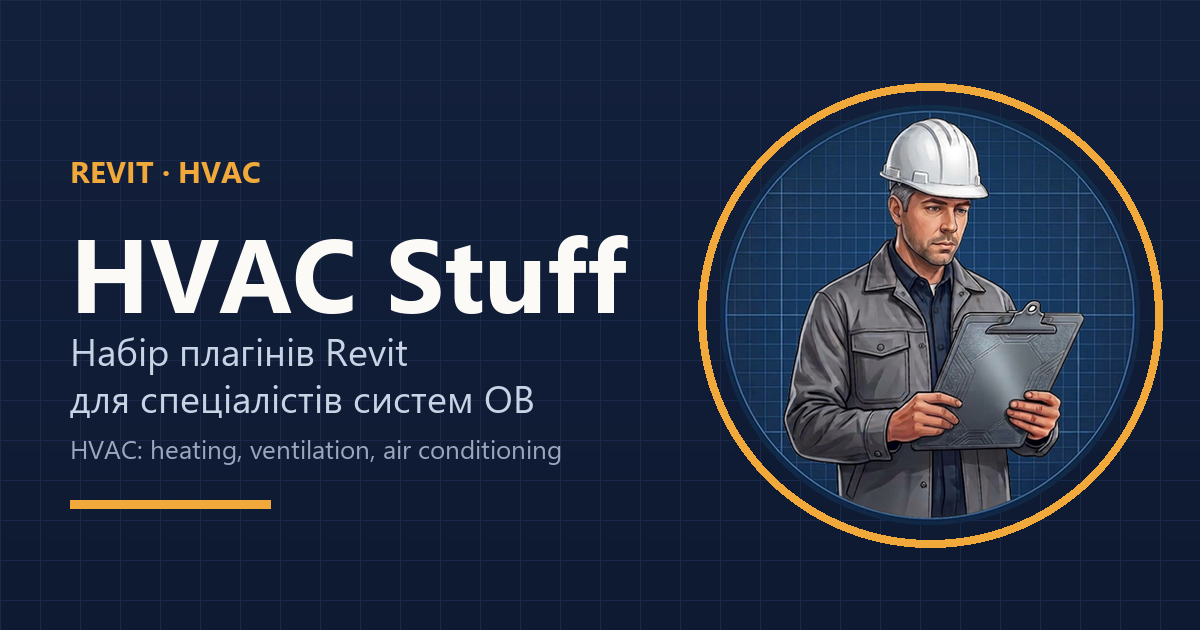
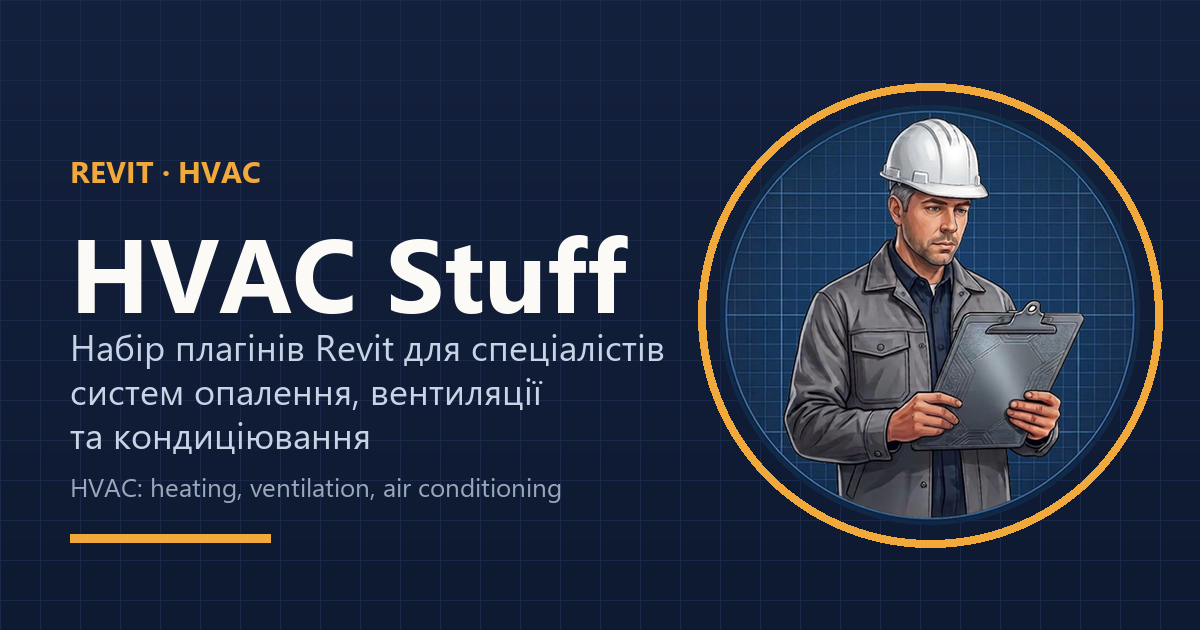
Reword: for specialists of heating, ventilation and air conditioning systems (no abbreviation)

Changed region(s): [[0.0617, 0.5127, 0.555, 0.8143], [0.0617, 0.8444, 0.2467, 0.8746]]

diff --git a/docs/index.html b/docs/index.html
@@ -4,14 +4,14 @@
 <meta charset="utf-8">
 <meta name="viewport" content="width=device-width, initial-scale=1">
 <title>HVAC Stuff — Revit add-in</title>
-<meta name="description" content="HVAC Stuff — a growing set of free Revit plugins for HVAC specialists: heating, ventilation, and air conditioning.">
+<meta name="description" content="HVAC Stuff — a growing set of free Revit plugins for specialists in heating, ventilation, and air conditioning systems.">
 <meta name="theme-color" content="#14213D">
 <link rel="icon" type="image/png" sizes="32x32" href="img/favicon-32.png">
 <link rel="icon" type="image/png" sizes="64x64" href="img/favicon-64.png">
 <link rel="apple-touch-icon" href="img/apple-touch-icon.png">
 <meta property="og:type" content="website">
 <meta property="og:title" content="HVAC Stuff — Revit plugins for HVAC design">
-<meta property="og:description" content="A free, growing set of Revit plugins for HVAC specialists (heating, ventilation, air conditioning). Набір плагінів Revit для спеціалістів систем ОВ. Набор плагинов Revit для специалистов систем ОВ.">
+<meta property="og:description" content="A free, growing set of Revit plugins for specialists in heating, ventilation, and air conditioning systems. Набір плагінів Revit для спеціалістів систем опалення, вентиляції та кондиціювання. Набор плагинов Revit для специалистов систем отопления, вентиляции и кондиционирования.">
 <meta property="og:image" content="https://imrvoland.github.io/HVAC-Stuff-Releases/img/og.png">
 <meta property="og:url" content="https://imrvoland.github.io/HVAC-Stuff-Releases/">
 <meta name="twitter:card" content="summary_large_image">
@@ -643,9 +643,9 @@ section.seen h2::after { width: 64px; }
   var T = {
     uk: {
       "nav.plugins": "Плагіни", "plug.eyebrow": "Набір плагінів", "plug.title": "Останні додані плагіни", "plug.lead": "HVAC Stuff росте: нові плагіни з’являються в тому ж інсталяторі й на тій самій вкладці Revit. Ось що вже є.", "plug.new": "Новий", "plug.soon": "Скоро", "plug.more": "Докладніше →", "plug.since": "З версії", "plug.next.t": "Наступний плагін", "plug.next.p": "Над ним уже йде робота. Є ідея, чого бракує у вашій рутині? Напишіть — додам у чергу.", "plug.idea": "Запропонувати ідею →", "q6.q": "Чи будуть нові плагіни?", "q6.a": "Так: набір поповнюється. Новий плагін з’являється в тому ж інсталяторі, на вкладці «HVAC Stuff». Оновлення приходить звичайним оновленням надбудови.", "rb.dark": "Темна", "rb.light": "Світла", "nav.ribbon": "Вкладка", "rb.eyebrow": "Спробуйте", "rb.title": "Наша вкладка в Revit — натисніть кнопку", "rb.lead": "Це копія стрічки Revit (темна й світла теми), але лише з нашою вкладкою. Наведіть курсор — з’явиться підказка, як у Revit. Натисніть — побачите, що робить команда.", "rb.g1": "Повітропроводи", "rb.g2": "Програма", "rb.qfc": "З’єднати<br>гофрою", "rb.ft": "Врізати<br>гофру", "rb.set": "Налаштування", "rb.about": "Про програму", "rb.f1": "Натисніть F1 для довідки", "rb.s0": "Готово", "rb.q1": "Виберіть перший конектор", "rb.q2": "Виберіть другий конектор", "rb.q3": "Готово: гнучкий повітропровід створено", "rb.f1s": "Виберіть елемент із жорстким повітропроводом", "rb.f2s": "Готово: кінець повітроводу замінено гнучким, 1500 мм", "rb.replay": "↻ Повторити", "rb.len": "Довжина, мм", "rb.set.lang": "Мова", "rb.set.color": "Колір гофри", "rb.set.hint": "Мова змінюється одразу — спробуйте. Колір фарбує гофру в демонстрації.", "rb.about.upd": "Перевірити оновлення", "rb.about.ok": "Остання версія: ", "rb.tip.qfc": "З’єднати гофрою — гнучкий повітропровід між двома конекторами за два кліки. Однакові розміри — одразу, різні — вікно з розміром і живим переглядом. Серія пар до Esc.", "rb.tip.ft": "Врізати гофру — кінець жорсткого повітроводу біля елемента стає гнучким. Швидкі значення 500–2500 мм, «Вся ділянка», серія елементів.", "rb.tip.set": "Налаштування — мова інтерфейсу, колір і вигляд гнучкого повітроводу при попередньому перегляді, параметри кожної команди.", "rb.tip.about": "Про програму — версія й перевірка оновлень, посібники, папка з налаштуваннями й журналами, автор, ліцензія та подяки.", "nav.home": "Головна", "nav.features": "Переваги", "nav.faq": "Питання", "nav.commands": "Команди", "nav.videos": "Відео", "nav.manuals": "Посібники", "nav.install": "Встановлення",
-      "hero.eyebrow": "Набір плагінів Revit для спеціалістів систем ОВ",
-      "hero.title": "Набір плагінів, що прибирає <em>рутину в проєктуванні ОВ</em>",
-      "hero.sub": "HVAC Stuff — безкоштовний набір плагінів для спеціалістів систем ОВ (опалення, вентиляція та кондиціювання). Зараз у ньому два плагіни для гнучких повітроводів, нові з’являтимуться регулярно. Одна установка — усі плагіни.",
+      "hero.eyebrow": "Revit · Опалення, вентиляція, кондиціювання",
+      "hero.title": "Набір плагінів, що прибирає <em>рутину проєктування</em>",
+      "hero.sub": "HVAC Stuff — безкоштовний набір плагінів для спеціалістів систем опалення, вентиляції та кондиціювання. Зараз у ньому два плагіни для гнучких повітроводів, нові з’являтимуться регулярно. Одна установка — усі плагіни.",
       "hero.download": "Завантажити", "hero.watch": "Дивитись відео", "hero.version": "Версія", "hero.free": "Безкоштовно",
       "hero.ribbon": "Вкладка «HVAC Stuff» у стрічці Revit",
       "feat.eyebrow": "Чому саме так", "feat.title": "Менше рутини — більше проєктування",
@@ -688,9 +688,9 @@ section.seen h2::after { width: 64px; }
     },
     en: {
       "nav.plugins": "Plugins", "plug.eyebrow": "The plugin set", "plug.title": "Latest added plugins", "plug.lead": "HVAC Stuff keeps growing: new plugins arrive in the same installer and on the same Revit tab. Here is what is in the set already.", "plug.new": "New", "plug.soon": "Soon", "plug.more": "Details →", "plug.since": "Since version", "plug.next.t": "The next plugin", "plug.next.p": "Work on it is under way. Know what your routine is missing? Write to me and I will add it to the queue.", "plug.idea": "Suggest an idea →", "q6.q": "Will there be more plugins?", "q6.a": "Yes: the set keeps growing. A new plugin comes in the same installer, on the “HVAC Stuff” tab. It arrives as a regular add-in update.", "rb.dark": "Dark", "rb.light": "Light", "nav.ribbon": "Ribbon", "rb.eyebrow": "Try it", "rb.title": "Our tab in Revit — press a button", "rb.lead": "This is a copy of the Revit ribbon (dark and light themes) with only our tab. Hover a button for a Revit-style tooltip. Press it to see what the command does.", "rb.g1": "Ductwork", "rb.g2": "Program", "rb.qfc": "Quick Flex<br>Connect", "rb.ft": "Flex<br>Tail", "rb.set": "Settings", "rb.about": "About", "rb.f1": "Press F1 for more help", "rb.s0": "Ready", "rb.q1": "Pick the first connector", "rb.q2": "Pick the second connector", "rb.q3": "Done: flex duct created", "rb.f1s": "Pick an element with a rigid duct", "rb.f2s": "Done: duct end replaced by a flex duct, 1500 mm", "rb.replay": "↻ Replay", "rb.len": "Length, mm", "rb.set.lang": "Language", "rb.set.color": "Flex duct color", "rb.set.hint": "The language changes at once, try it. The color paints the flex duct in the demo.", "rb.about.upd": "Check for updates", "rb.about.ok": "Latest version: ", "rb.tip.qfc": "Quick FlexConnect — a flex duct between two connectors in two clicks. Equal sizes: built at once; different sizes: a window with the size and a live preview. Series of pairs until Esc.", "rb.tip.ft": "Flex Tail — the end of a rigid duct at an element becomes flex. Quick lengths 500–2500 mm, the whole segment, a series of elements.", "rb.tip.set": "Settings — interface language, preview color, the look of the flex duct during preview, and the options of each command.", "rb.tip.about": "About — the version and the update check, the user guides, the folder with settings and logs, the author, the license, and the credits.", "nav.home": "Home", "nav.features": "Features", "nav.faq": "FAQ", "nav.commands": "Commands", "nav.videos": "Videos", "nav.manuals": "Manuals", "nav.install": "Install",
-      "hero.eyebrow": "A set of Revit plugins for HVAC specialists",
+      "hero.eyebrow": "Revit · Heating, ventilation, air conditioning",
       "hero.title": "A plugin set that takes the <em>routine out of HVAC design</em>",
-      "hero.sub": "HVAC Stuff is a free set of plugins for HVAC specialists: heating, ventilation, and air conditioning. It has two plugins for flex ducts today, and new ones keep coming. One installer, all the plugins.",
+      "hero.sub": "HVAC Stuff is a free set of plugins for specialists in heating, ventilation, and air conditioning systems. It has two plugins for flex ducts today, and new ones keep coming. One installer, all the plugins.",
       "hero.download": "Download", "hero.watch": "Watch the videos", "hero.version": "Version", "hero.free": "Free",
       "hero.ribbon": "The “HVAC Stuff” tab in the Revit ribbon",
       "feat.eyebrow": "Why it feels different", "feat.title": "Less routine, more design",
@@ -733,9 +733,9 @@ section.seen h2::after { width: 64px; }
     },
     ru: {
       "nav.plugins": "Плагины", "plug.eyebrow": "Набор плагинов", "plug.title": "Последние добавленные плагины", "plug.lead": "HVAC Stuff растёт: новые плагины появляются в том же установщике и на той же вкладке Revit. Вот что уже есть.", "plug.new": "Новый", "plug.soon": "Скоро", "plug.more": "Подробнее →", "plug.since": "С версии", "plug.next.t": "Следующий плагин", "plug.next.p": "Работа над ним уже идёт. Есть идея, чего не хватает в вашей рутине? Напишите — добавлю в очередь.", "plug.idea": "Предложить идею →", "q6.q": "Будут ли новые плагины?", "q6.a": "Да: набор пополняется. Новый плагин приходит в том же установщике, на вкладке «HVAC Stuff». Он появляется обычным обновлением надстройки.", "rb.dark": "Тёмная", "rb.light": "Светлая", "nav.ribbon": "Вкладка", "rb.eyebrow": "Попробуйте", "rb.title": "Наша вкладка в Revit — нажмите кнопку", "rb.lead": "Это копия ленты Revit (тёмная и светлая темы), но только с нашей вкладкой. Наведите курсор — появится подсказка, как в Revit. Нажмите — увидите, что делает команда.", "rb.g1": "Воздуховоды", "rb.g2": "Программа", "rb.qfc": "Соединить<br>гофрой", "rb.ft": "Врезать<br>гофру", "rb.set": "Настройки", "rb.about": "О программе", "rb.f1": "Нажмите F1 для получения справки", "rb.s0": "Готово", "rb.q1": "Выберите первый коннектор", "rb.q2": "Выберите второй коннектор", "rb.q3": "Готово: гибкий воздуховод создан", "rb.f1s": "Выберите элемент с жёстким воздуховодом", "rb.f2s": "Готово: конец воздуховода заменён гибким, 1500 мм", "rb.replay": "↻ Повторить", "rb.len": "Длина, мм", "rb.set.lang": "Язык", "rb.set.color": "Цвет гофры", "rb.set.hint": "Язык меняется сразу — попробуйте. Цвет окрашивает гофру в демонстрации.", "rb.about.upd": "Проверить обновления", "rb.about.ok": "Последняя версия: ", "rb.tip.qfc": "Соединить гофрой — гибкий воздуховод между двумя коннекторами за два клика. Одинаковые размеры — сразу, разные — окно с размером и живым предпросмотром. Серия пар до Esc.", "rb.tip.ft": "Врезать гофру — конец жёсткого воздуховода у элемента становится гибким. Быстрые значения 500–2500 мм, «Весь участок», серия элементов.", "rb.tip.set": "Настройки — язык интерфейса, цвет и вид гибкого воздуховода при предпросмотре, параметры каждой команды.", "rb.tip.about": "О программе — версия и проверка обновлений, руководства, папка с настройками и журналами, автор, лицензия и благодарности.", "nav.home": "Главная", "nav.features": "Преимущества", "nav.faq": "Вопросы", "nav.commands": "Команды", "nav.videos": "Видео", "nav.manuals": "Руководства", "nav.install": "Установка",
-      "hero.eyebrow": "Набор плагинов Revit для специалистов систем ОВ",
-      "hero.title": "Набор плагинов, который убирает <em>рутину в проектировании ОВ</em>",
-      "hero.sub": "HVAC Stuff — бесплатный набор плагинов для специалистов систем ОВ (отопление, вентиляция и кондиционирование). Сейчас в нём два плагина для гибких воздуховодов, новые будут появляться регулярно. Одна установка — все плагины.",
+      "hero.eyebrow": "Revit · Отопление, вентиляция, кондиционирование",
+      "hero.title": "Набор плагинов, который убирает <em>рутину проектирования</em>",
+      "hero.sub": "HVAC Stuff — бесплатный набор плагинов для специалистов систем отопления, вентиляции и кондиционирования. Сейчас в нём два плагина для гибких воздуховодов, новые будут появляться регулярно. Одна установка — все плагины.",
       "hero.download": "Скачать", "hero.watch": "Смотреть видео", "hero.version": "Версия", "hero.free": "Бесплатно",
       "hero.ribbon": "Вкладка «HVAC Stuff» на ленте Revit",
       "feat.eyebrow": "Чем удобно", "feat.title": "Меньше рутины — больше проектирования",

diff --git a/README.md b/README.md
@@ -1,5 +1,5 @@
 <p align="center">
-  <img src="docs/banner.svg" alt="HVAC Stuff — набір плагінів Revit для спеціалістів систем ОВ" width="100%">
+  <img src="docs/banner.svg" alt="HVAC Stuff — набір плагінів Revit для спеціалістів систем опалення, вентиляції та кондиціювання" width="100%">
 </p>
 
 <p align="center">
@@ -15,7 +15,7 @@
 </p>
 <!-- ribbon:end -->
 
-**HVAC Stuff** — набір плагінів Revit для спеціалістів систем ОВ (опалення, вентиляція та кондиціювання). Набір росте; зараз у ньому
+**HVAC Stuff** — набір плагінів Revit для спеціалістів систем опалення, вентиляції та кондиціювання. Набір росте; зараз у ньому
 два плагіни для гнучких повітроводів: один з’єднує конектори гофрою за два кліки, інший перетворює кінець жорсткого повітроводу
 на гнучку ділянку одним кліком. Інтерфейс — українською, англійською та російською.
 
